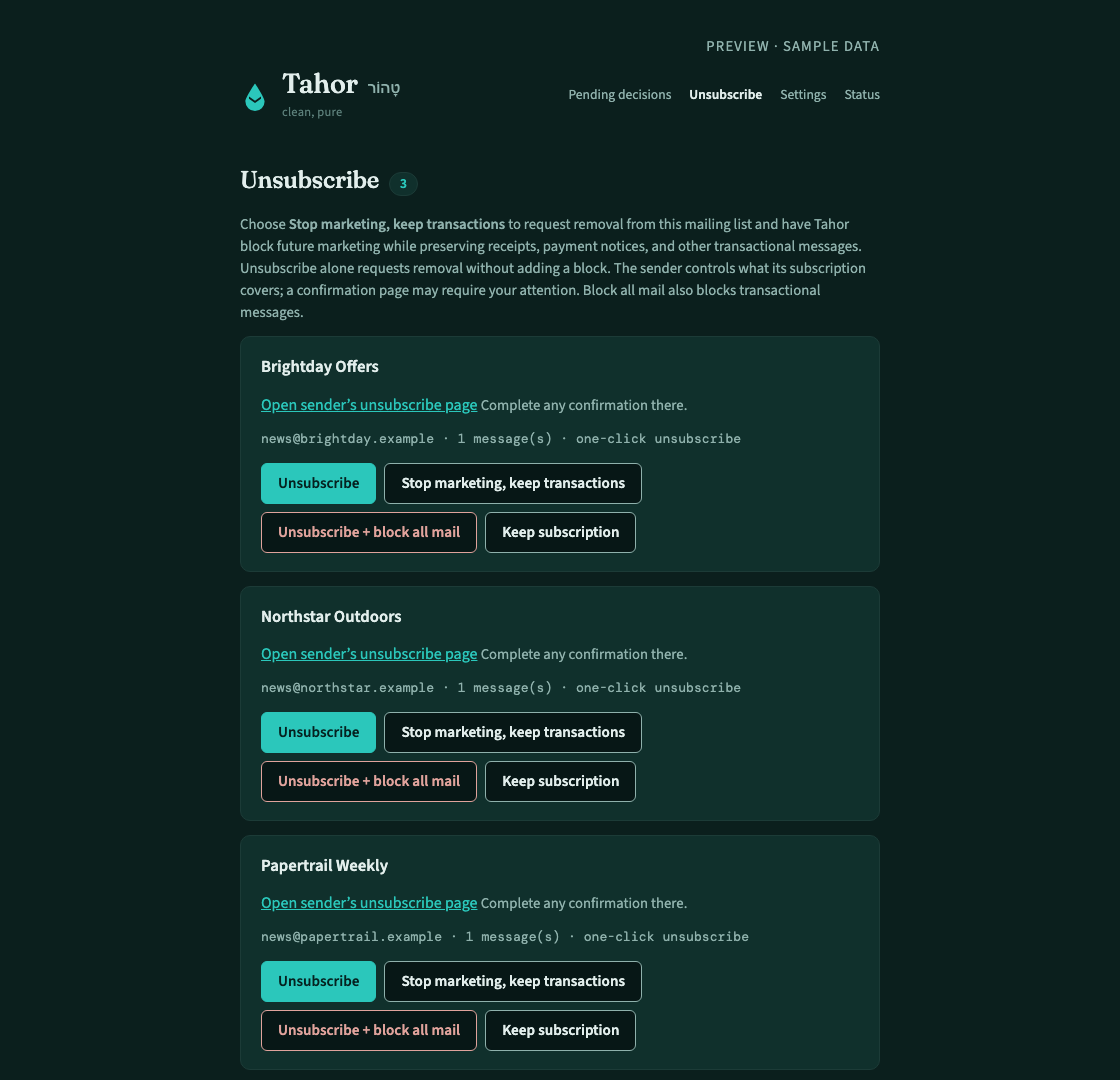
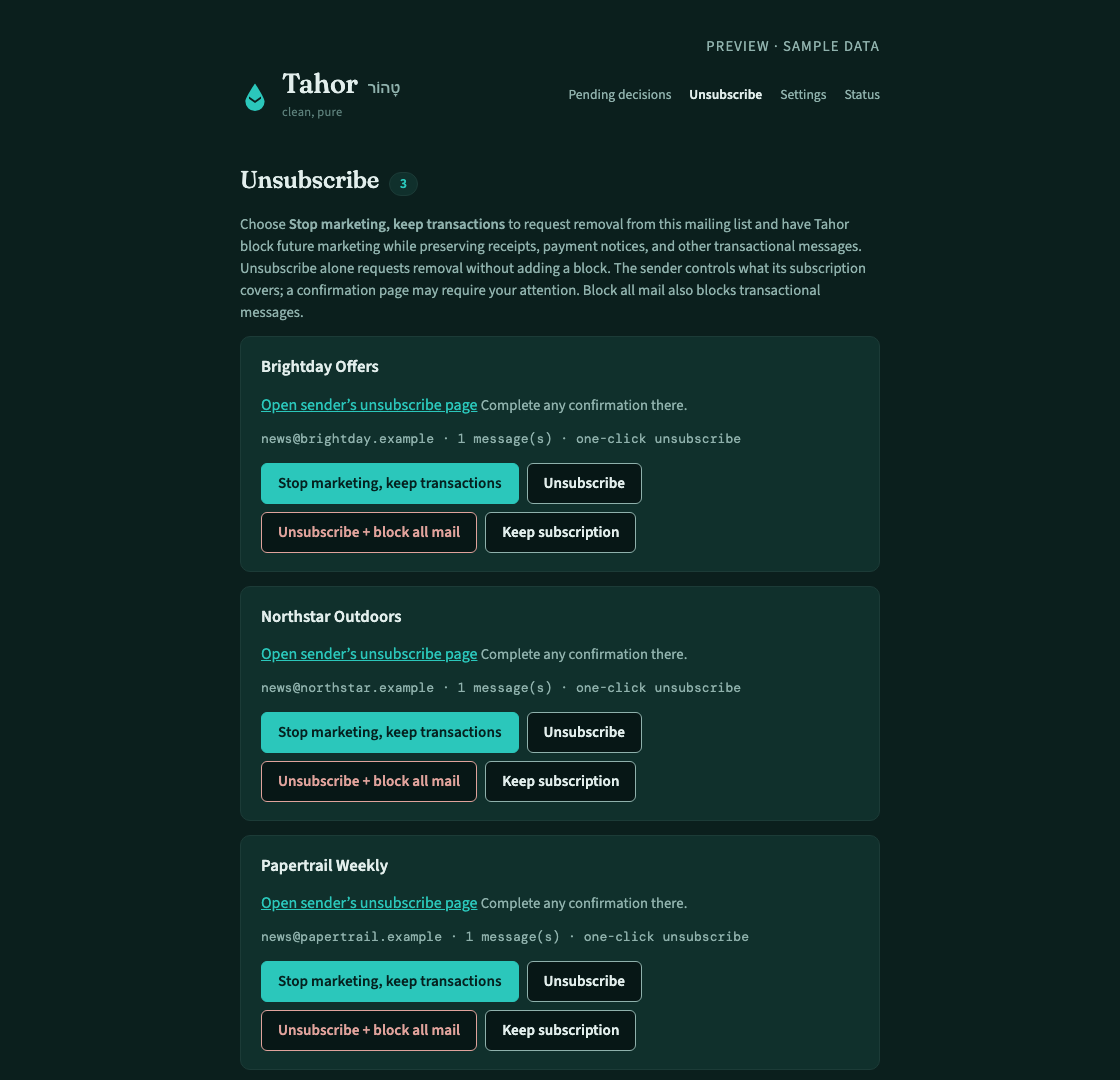
Document in-place decisions and protected SMTP enrollment

Changed region(s): [[0.25, 0.8861, 0.5625, 0.9472], [0.25, 0.6417, 0.5625, 0.7028], [0.25, 0.4278, 0.5625, 0.4889]]

diff --git a/docs/setup.md b/docs/setup.md
@@ -285,3 +285,17 @@ that SMTP sending works. Optionally configure `FASTMAIL_SMTP_USERNAME` and
 `FASTMAIL_SMTP_APP_PASSWORD` in the protected environment file to use a separate
 sending credential. Do not use your account password or authenticator key here.
 Sender website links may require you to confirm the unsubscribe in your browser.
+
+On an isolated Linux installation under `/opt/tahor`, enroll a separate sending
+credential through a private terminal:
+
+```bash
+sudo /opt/tahor/venv/bin/python /opt/tahor/scripts/enroll_smtp.py
+```
+
+The command accepts the app password through a hidden prompt, verifies one SMTP
+sign-in over TLS without sending mail, and updates only the separate SMTP fields
+in `/etc/tahor/config.env`. Rejected authentication leaves that file unchanged.
+After saving, it restarts the web service to load the credential. If that restart
+fails, it reports that the credential was saved and prints the recovery command.
+Never enter the account password, authenticator seed, or app password in chat.

diff --git a/docs/operations.md b/docs/operations.md
@@ -443,7 +443,10 @@ Decision cards include the sender, delivery date and age where available. The
 **View email** action reads the message without marking it read and displays escaped
 plain text, without loading remote images or running message HTML. Oversized
 messages are not displayed. A moved message is located by its verified identity;
-ambiguous matches stay pending. Saved actions retry after temporary failures.
+ambiguous matches stay pending. Saved actions retry after temporary failures. Decisions update in place and keep
+your scroll position; results appear beside the affected card. Handling an
+individual sample does not create a sender-wide rule, and completed samples no
+longer keep a stale routing question on screen.
 
 **Keep** removes the review hold and retains ordinary filing and retention.
 **Keep briefly** uses `retention-short-lived` and the configured read/unread age

diff --git a/README.md b/README.md
@@ -161,7 +161,8 @@ Tahor uses observed messages to identify merchants and automatically route confi
 receipt and statement matches. Shared delivery services are matched by the actual
 sender address; a marketplace purchase does not turn every future receipt into the
 same product category. Uncertain cases show the sender, date, suggested folder,
-and a link to read the email safely before deciding.
+and a link to read the email safely before deciding. Actions update the queue in
+place so you can keep working without losing your position.
 
 **Keep** releases a review hold and preserves normal retention and filing rules.
 **Keep briefly** expires the message after the configured three-day read or
